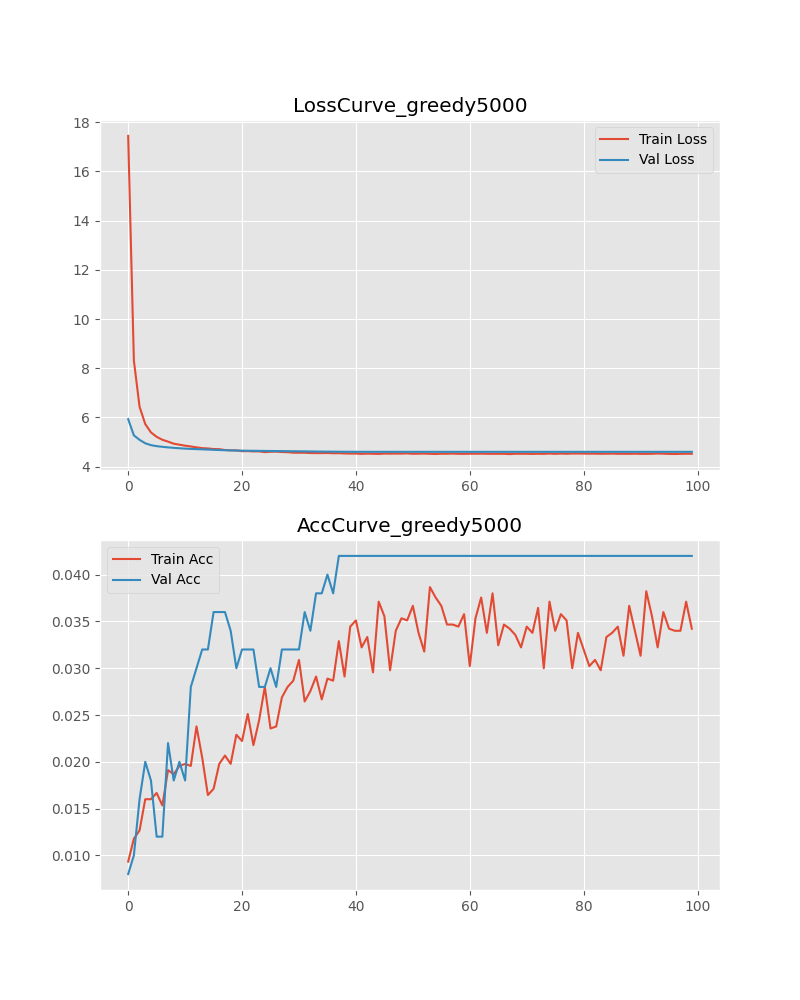
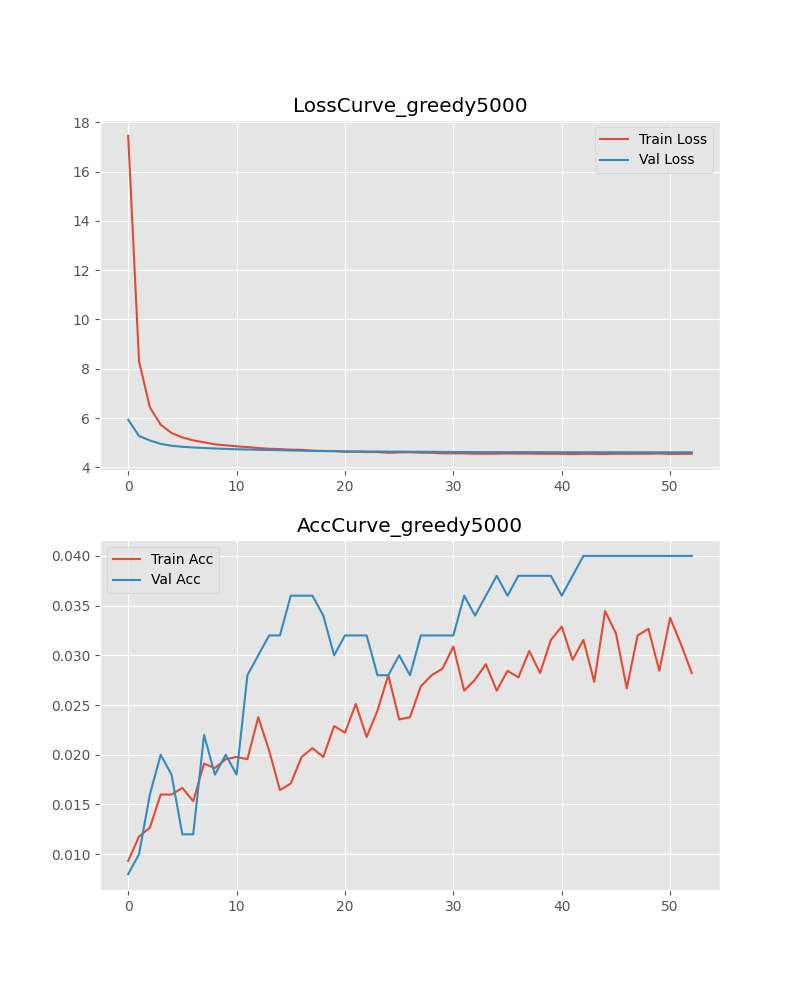
Updated on Colab\nTrained

diff --git a/src/train.py b/src/train.py
@@ -118,7 +118,7 @@ def train_loop(p, best_inds: torch.Tensor, data, test_data) -> None:
     if p.scheduler:
         scheduler = get_scheduler(p, optimizer)
 
-    early_stopping = EarlyStopping(**p.early_stopping_kwargs, threshold=-4)
+    early_stopping = EarlyStopping(**p.early_stopping_kwargs, threshold=-5)
     losses, accs, val_losses, val_accs = [], [], [], []
     lrs = []
     for epoch in trange(p.epochs):
@@ -165,6 +165,7 @@ def train_loop(p, best_inds: torch.Tensor, data, test_data) -> None:
         p.output_dir / f"LearningCurve_{prefix}_n{p.topn}{suffix}",
     )
     if lrs:
+        logger.debug(lrs)
         plt.figure()
         plt.plot(lrs, label="learning rate")
         plt.savefig(p.output_dir / f"Learningrate_{p.scheduler}_{prefix}_n{p.topn}{suffix}")
